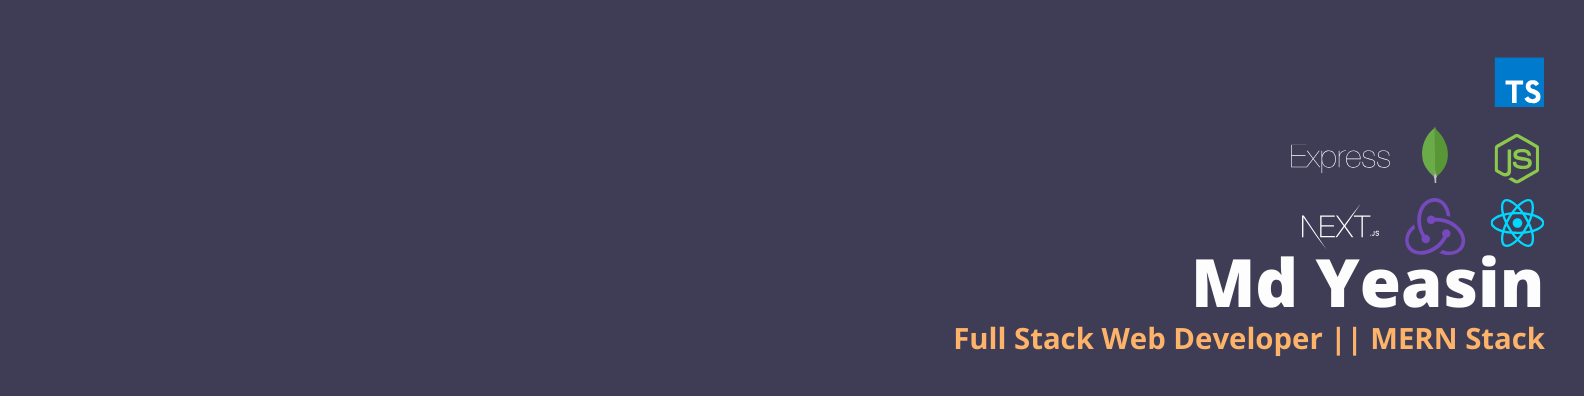
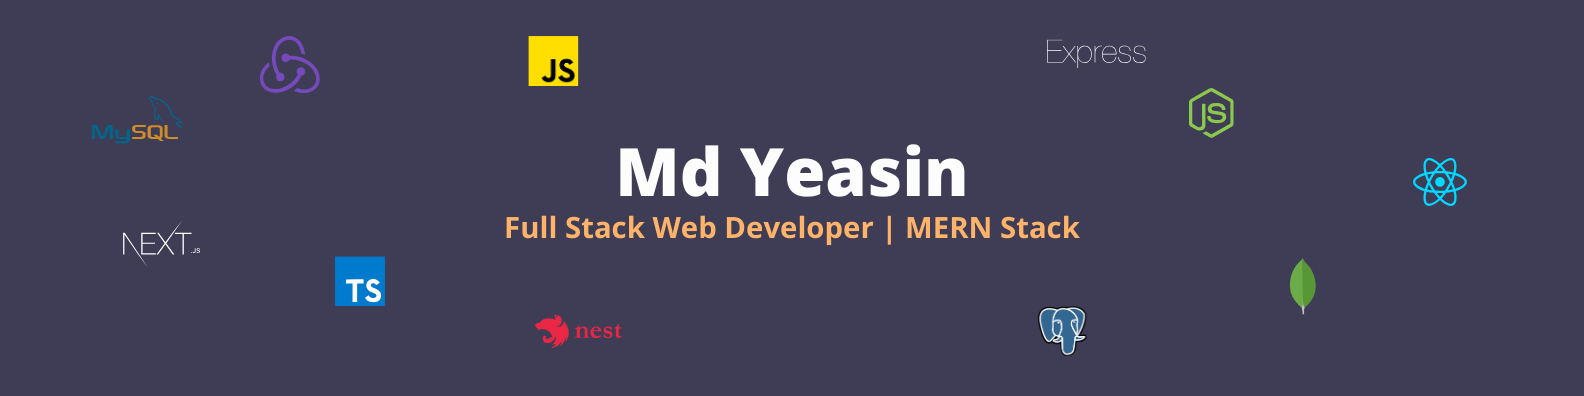
Update README.md

diff --git a/README.md b/README.md
@@ -1,4 +1,4 @@
-<img src="./images/2.png" alt="banner" />
+<img src="./images/md_yeasin.png" alt="banner" />
 
 <h2 align="center">Hi, I'm <a href="https://yeasin-portfolio.web.app/" target="_blank">Yeasin<a> <img src="https://i.ibb.co/HtGR0xy/waving-hi.gif" width="30px" height="30px"></h1>
 <h3 align="center">Enthusiast Web Developer</h3>
